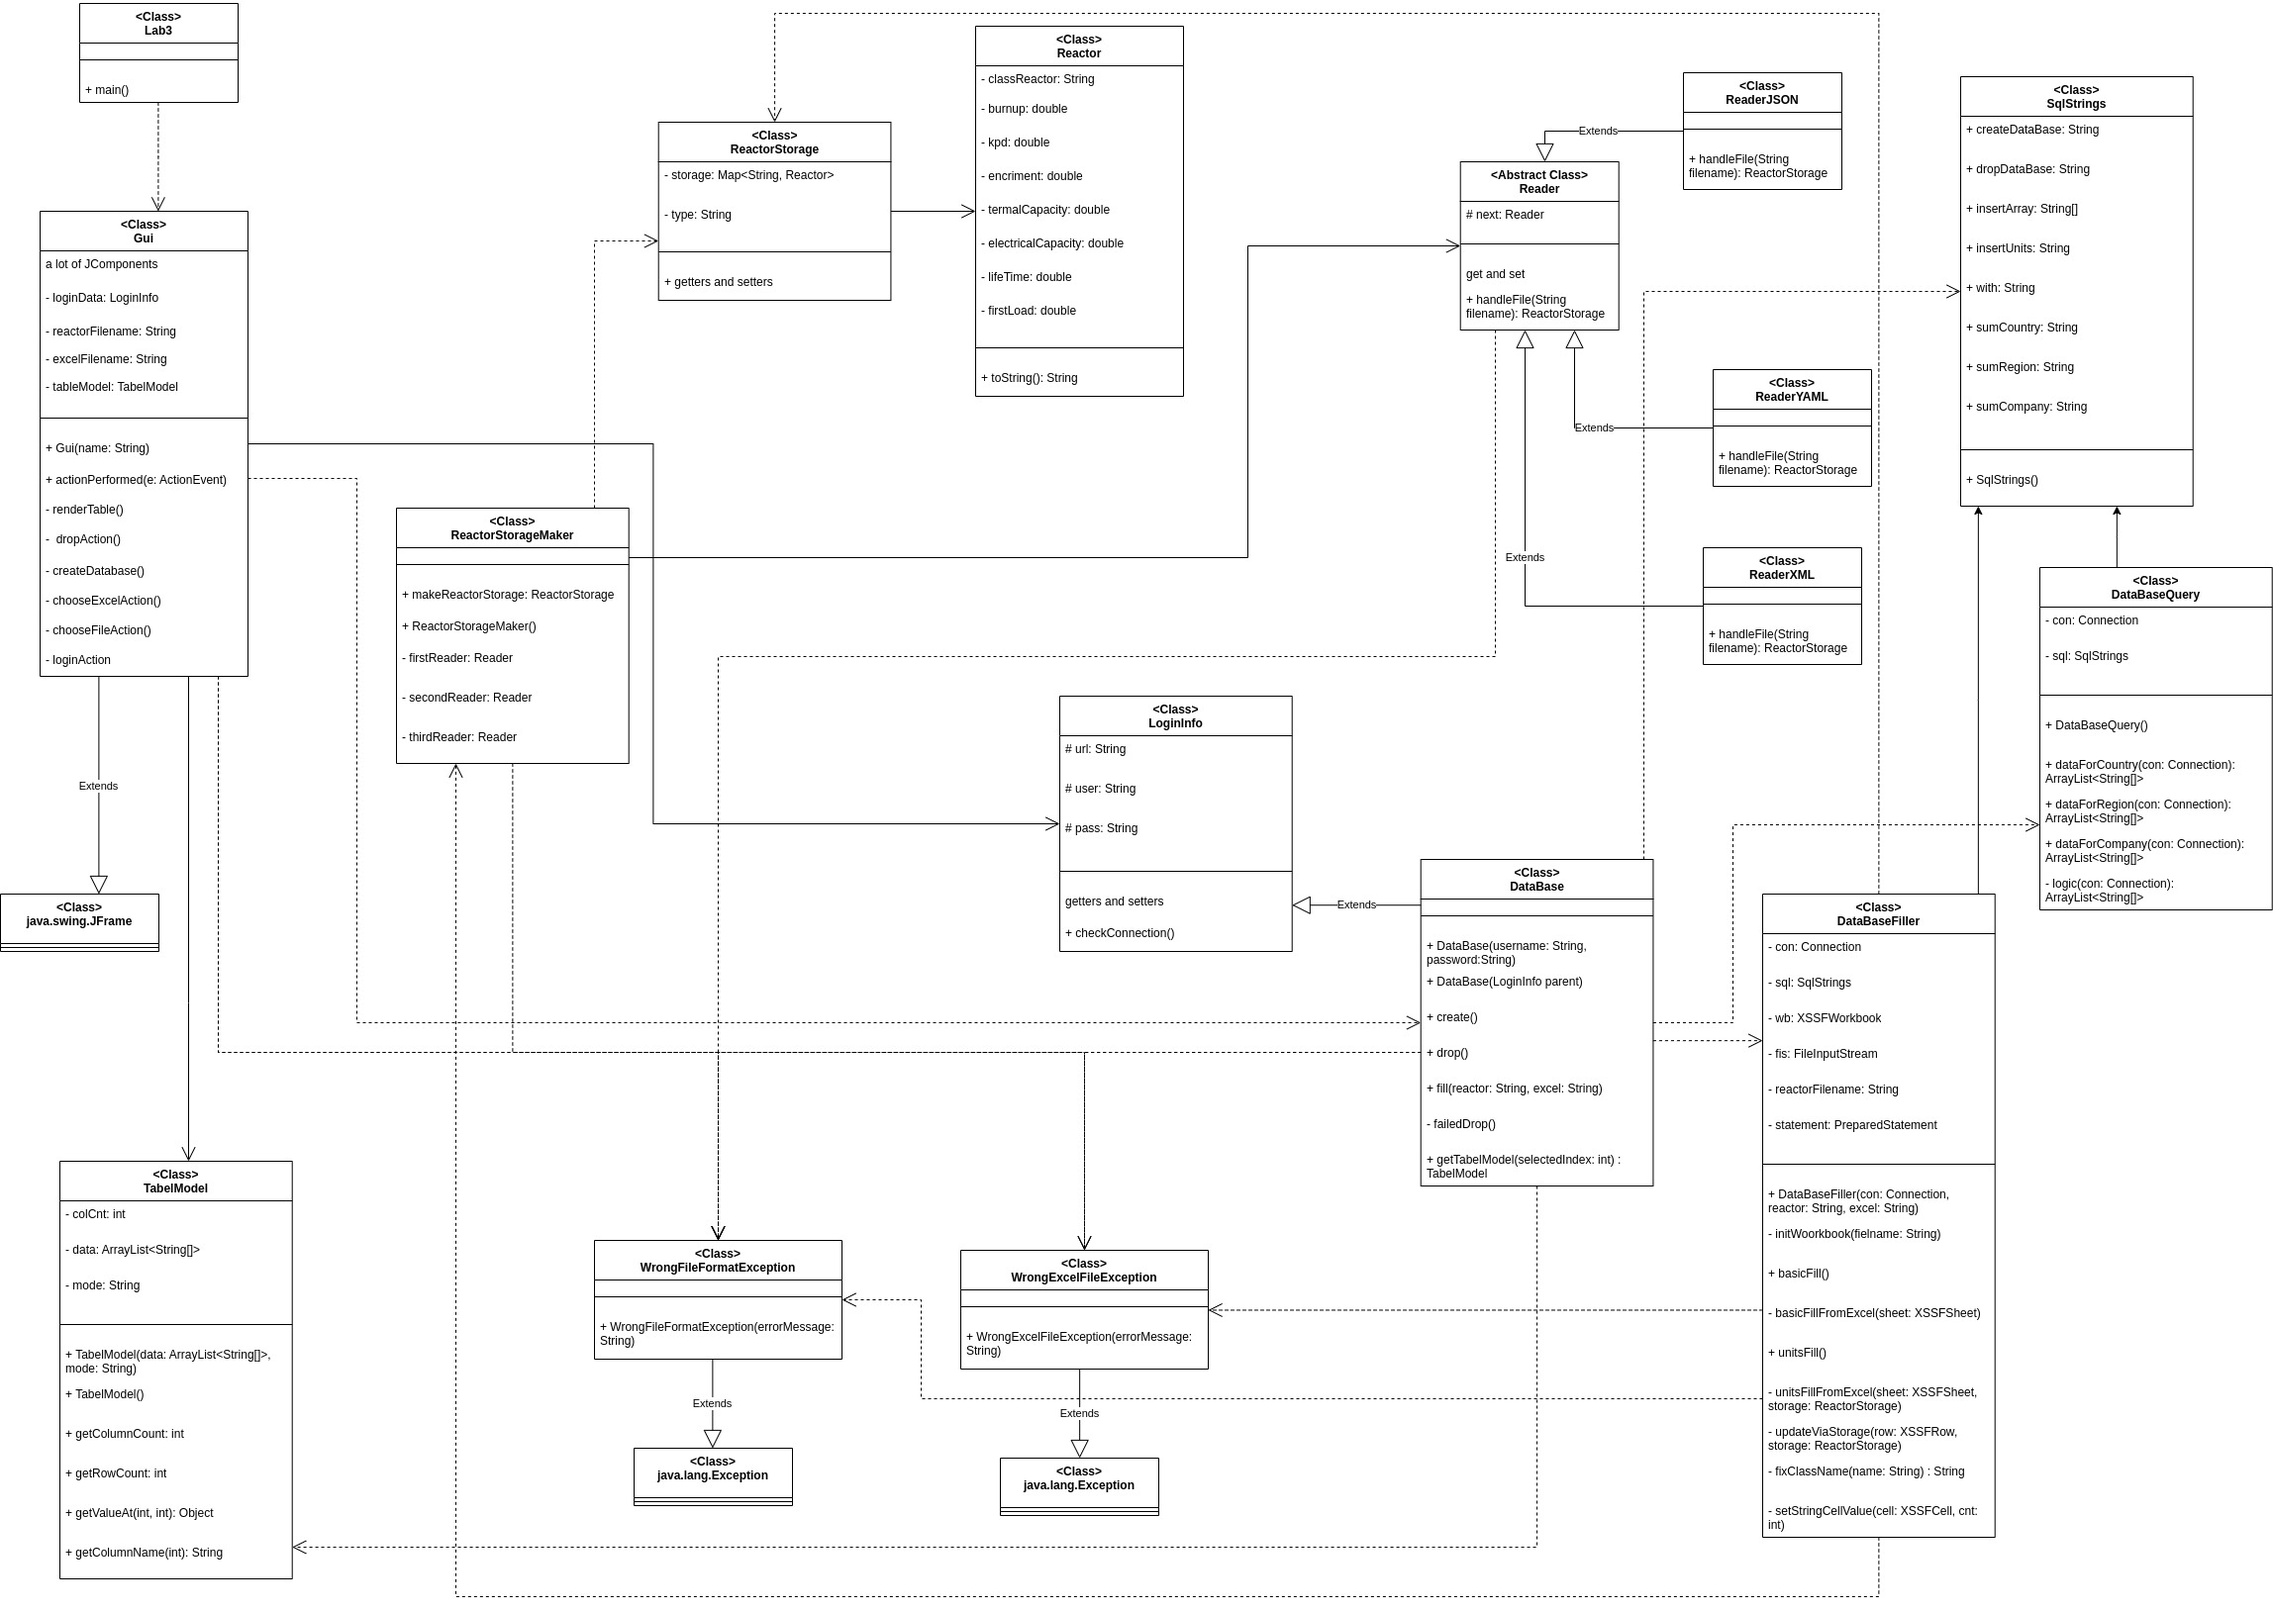
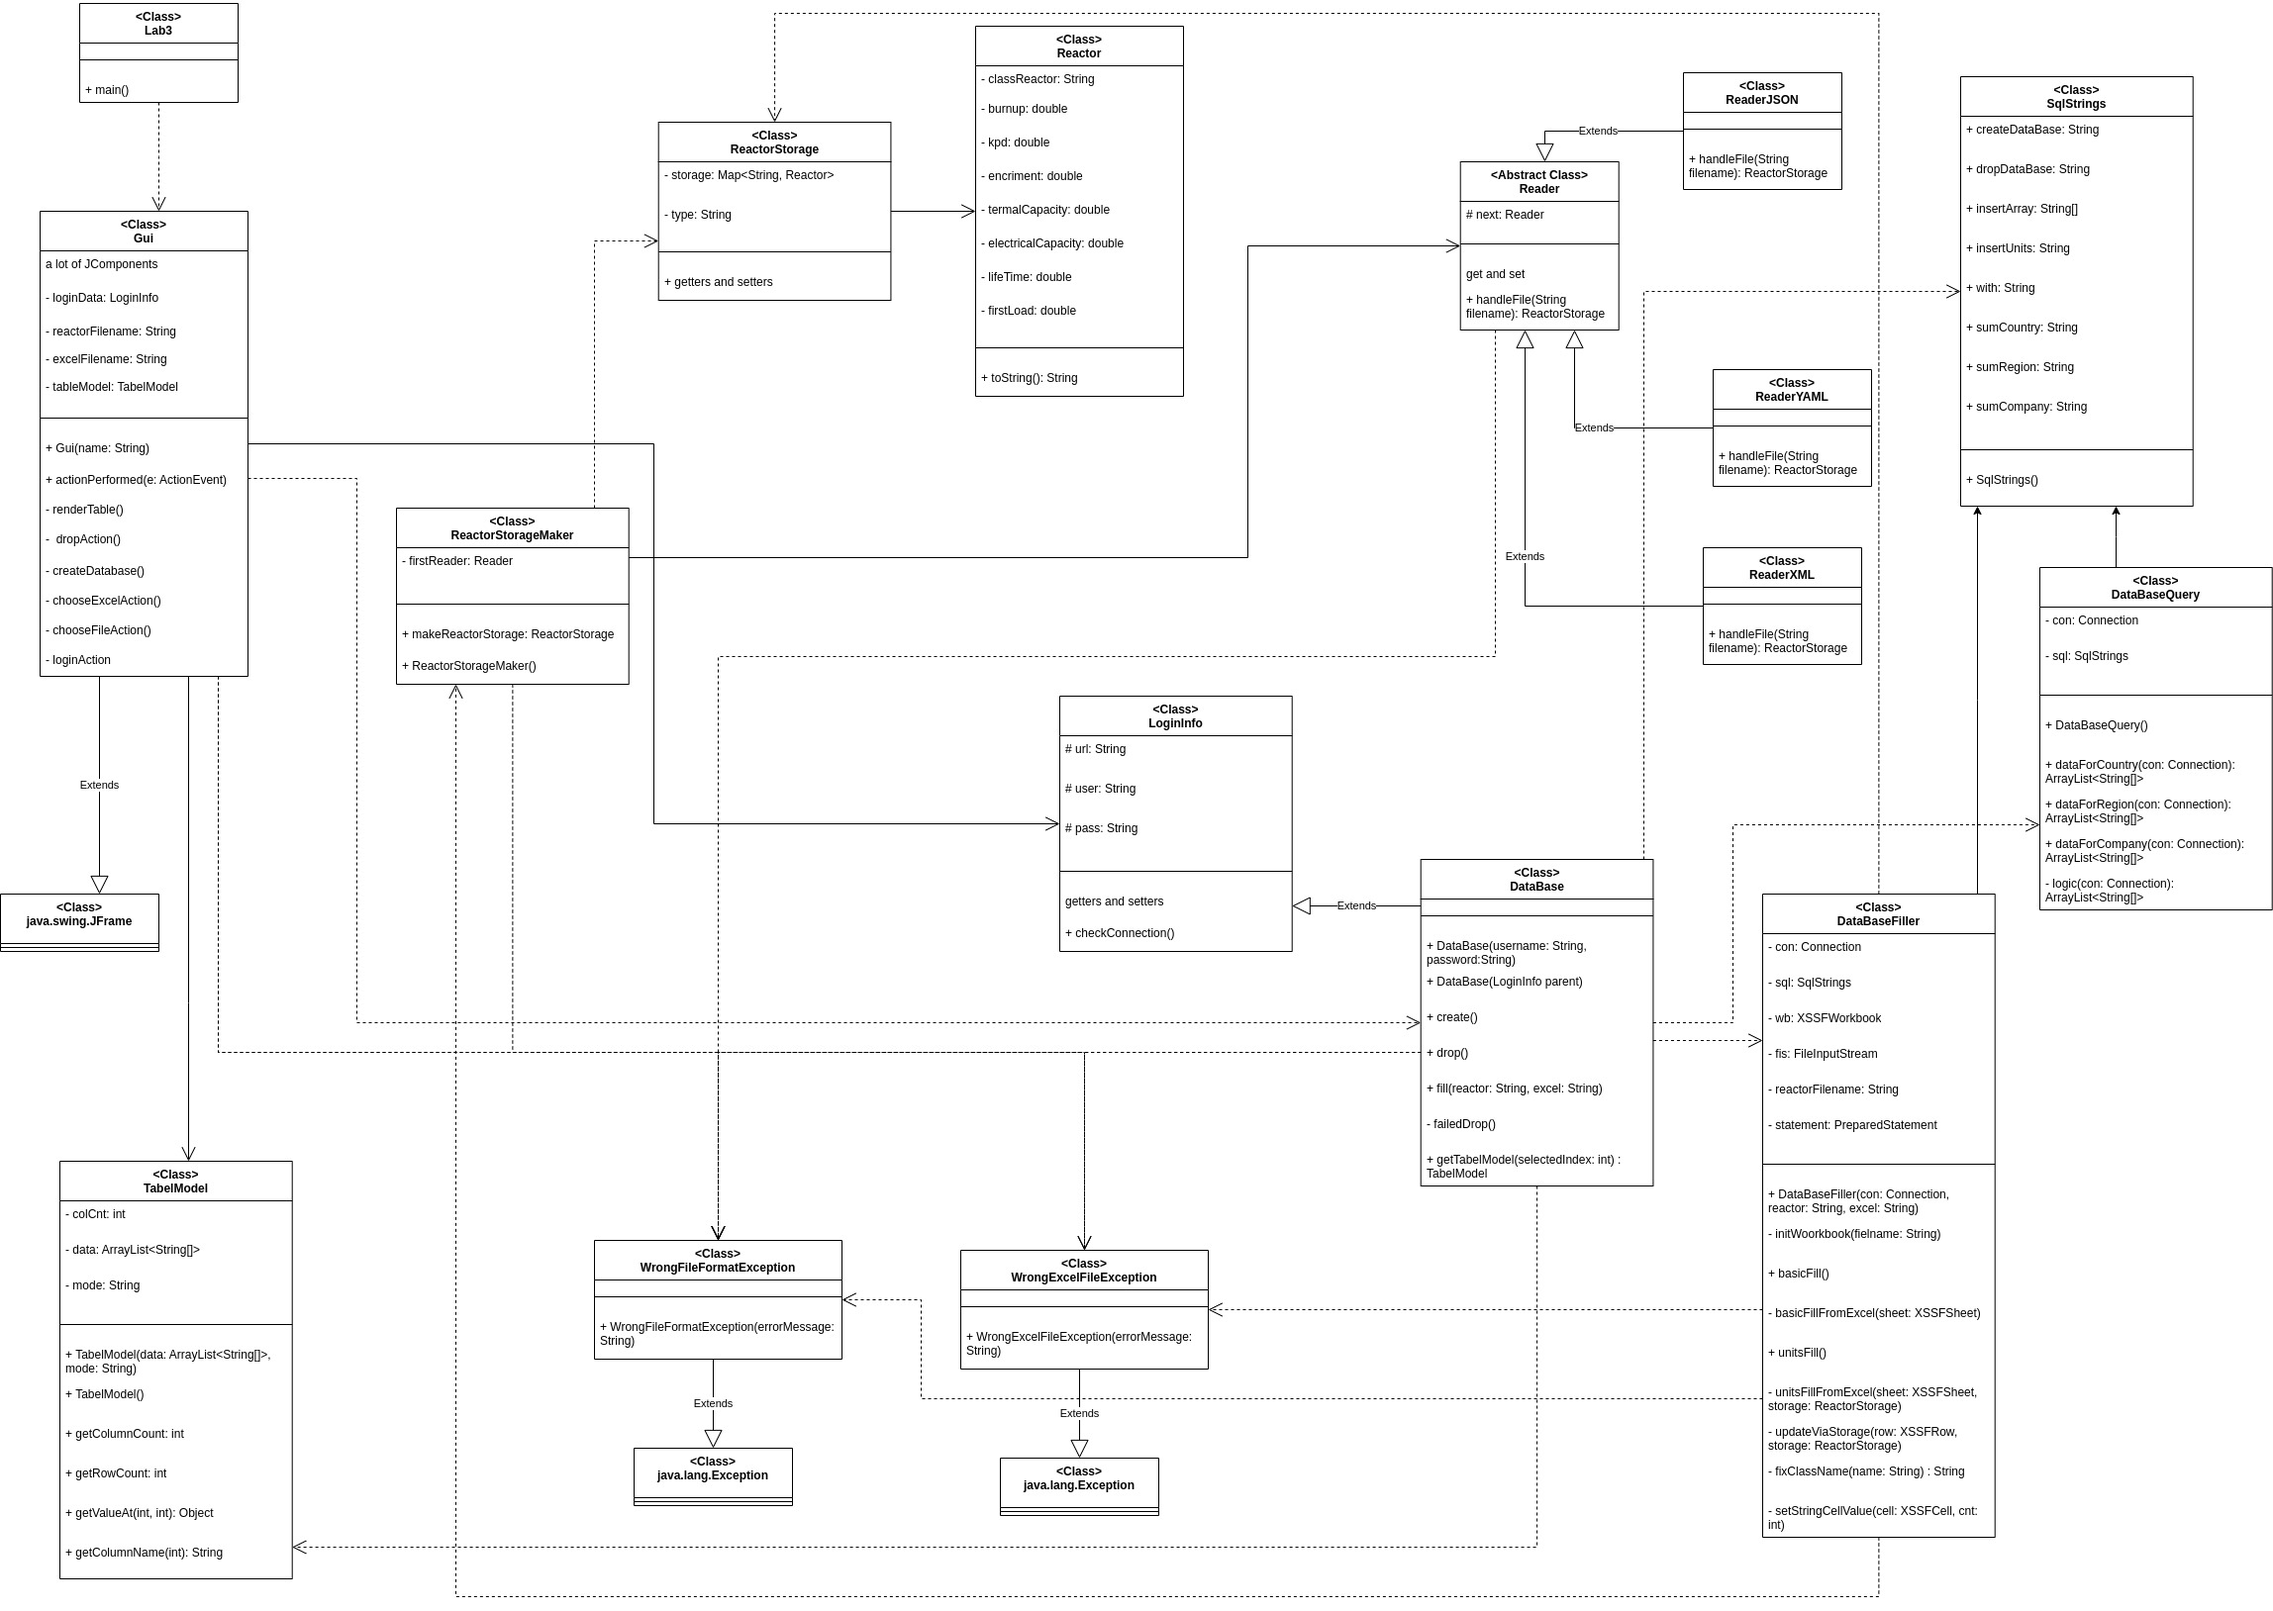
Chain obligation fix

diff --git a/src/main/java/edu/mephi/reactor/ReactorStorageMaker.java b/src/main/java/edu/mephi/reactor/ReactorStorageMaker.java
@@ -1,29 +1,25 @@
 package edu.mephi.reactor;
 
-import java.io.IOException;
-
 import edu.mephi.exceptions.WrongFileFormatException;
 import edu.mephi.reactor.readers.Reader;
 import edu.mephi.reactor.readers.ReaderJSON;
 import edu.mephi.reactor.readers.ReaderXML;
 import edu.mephi.reactor.readers.ReaderYAML;
+import java.io.IOException;
 
 public class ReactorStorageMaker {
   private Reader firstReader;
-  private Reader secondReader;
-  private Reader thirdReader;
 
   public ReactorStorageMaker() {
     this.firstReader = new ReaderXML();
-    this.secondReader = new ReaderYAML();
-    this.thirdReader = new ReaderJSON();
+    Reader secondReader = new ReaderYAML();
+    Reader thirdReader = new ReaderJSON();
     firstReader.setNext(secondReader);
     secondReader.setNext(thirdReader);
   }
 
-  public ReactorStorage makeReactorStorage(String filename) 
+  public ReactorStorage makeReactorStorage(String filename)
       throws WrongFileFormatException, IOException {
     return firstReader.handleFile(filename);
   }
-  
 }
